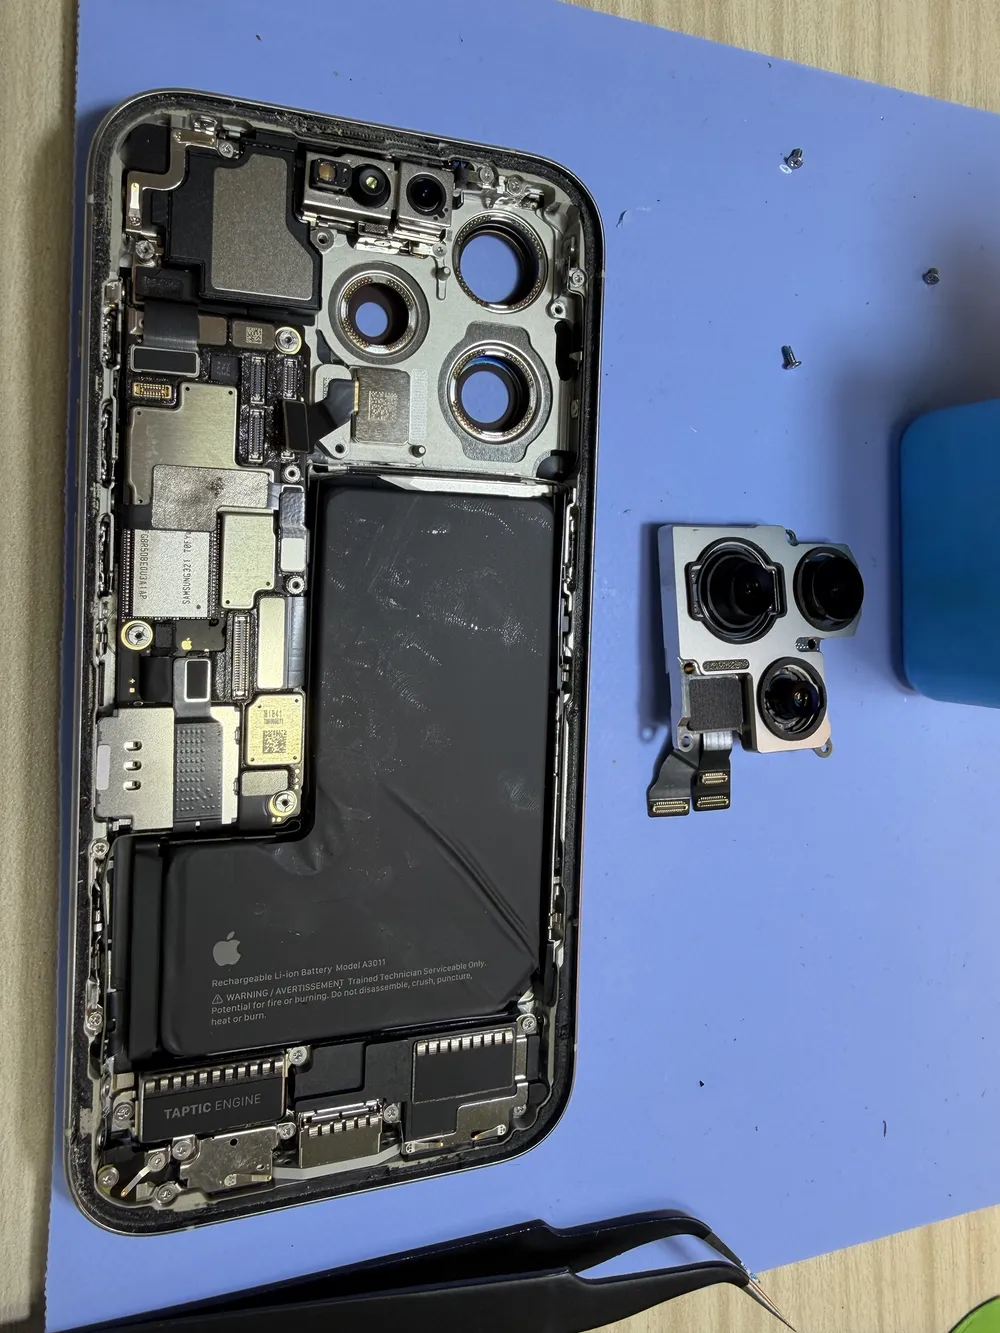
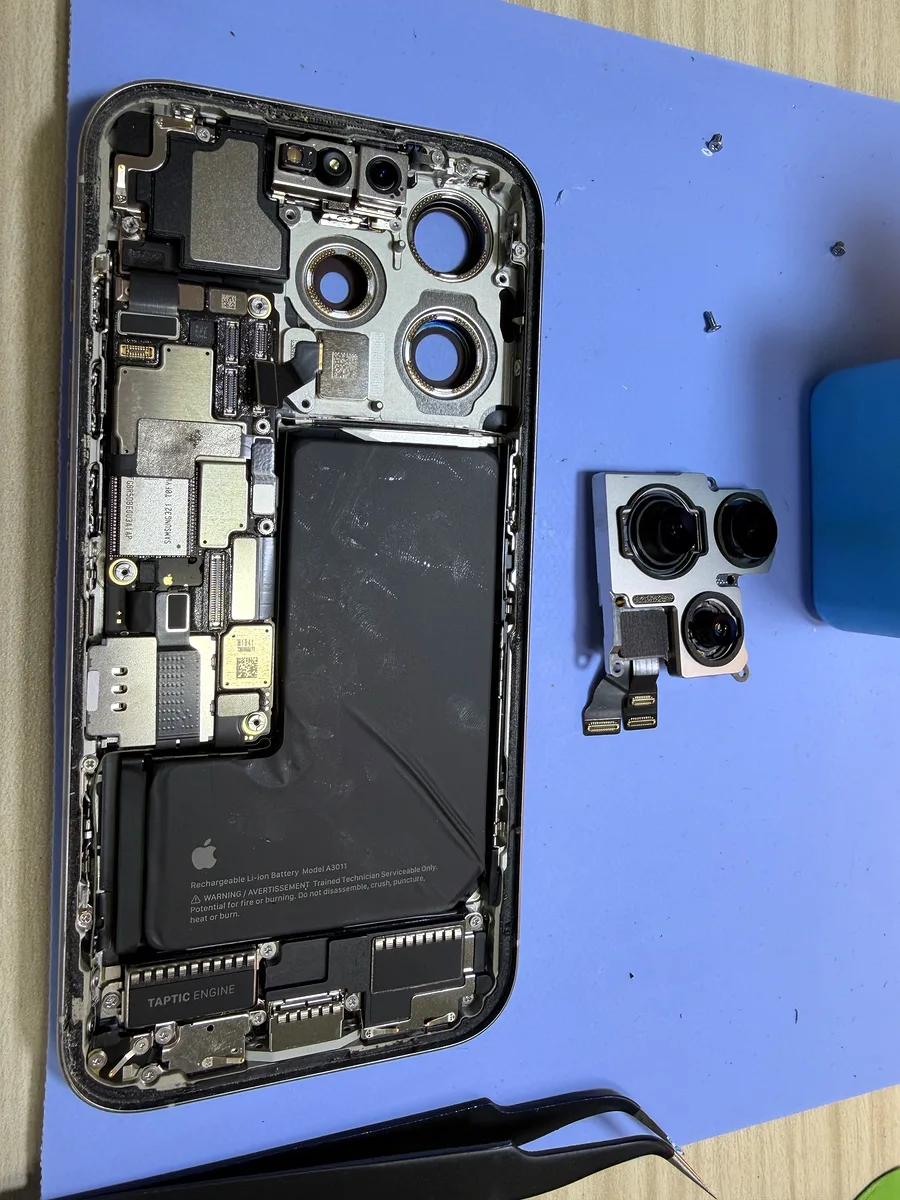
아이폰 15 프로 카메라 멍 모듈 교체 후기 게시 (q018), 사진 3:4 프레임 통일
Claude-Session: https://claude.ai/code/session_01GKuoYgx4jjQMsMoCYLGCHG

diff --git a/content/blog/아이폰-카메라-멍-3배줌-아이폰15프로-카메라-모듈-교체-후기.md b/content/blog/아이폰-카메라-멍-3배줌-아이폰15프로-카메라-모듈-교체-후기.md
@@ -5,7 +5,6 @@ date: 2026-11-21
 service: iphone-camera
 slug: 아이폰-카메라-멍-3배줌-아이폰15프로-카메라-모듈-교체-후기
 question: q018
-draft: true
 ---
 
 **아이폰 카메라 멍이 3배 줌 이상에서 나타난다면, 망원 카메라가 들어 있는 후면 카메라 모듈을 교체하면 해결돼요.** 아이폰 15 프로의 후면 카메라 3개는 하나의 모듈로 묶여 있어서 모듈 단위로 교체하고, 교체 후에는 수리 마저 하기(정품 인증)와 카메라 캘리브레이션까지 해야 제대로 호환돼요.
